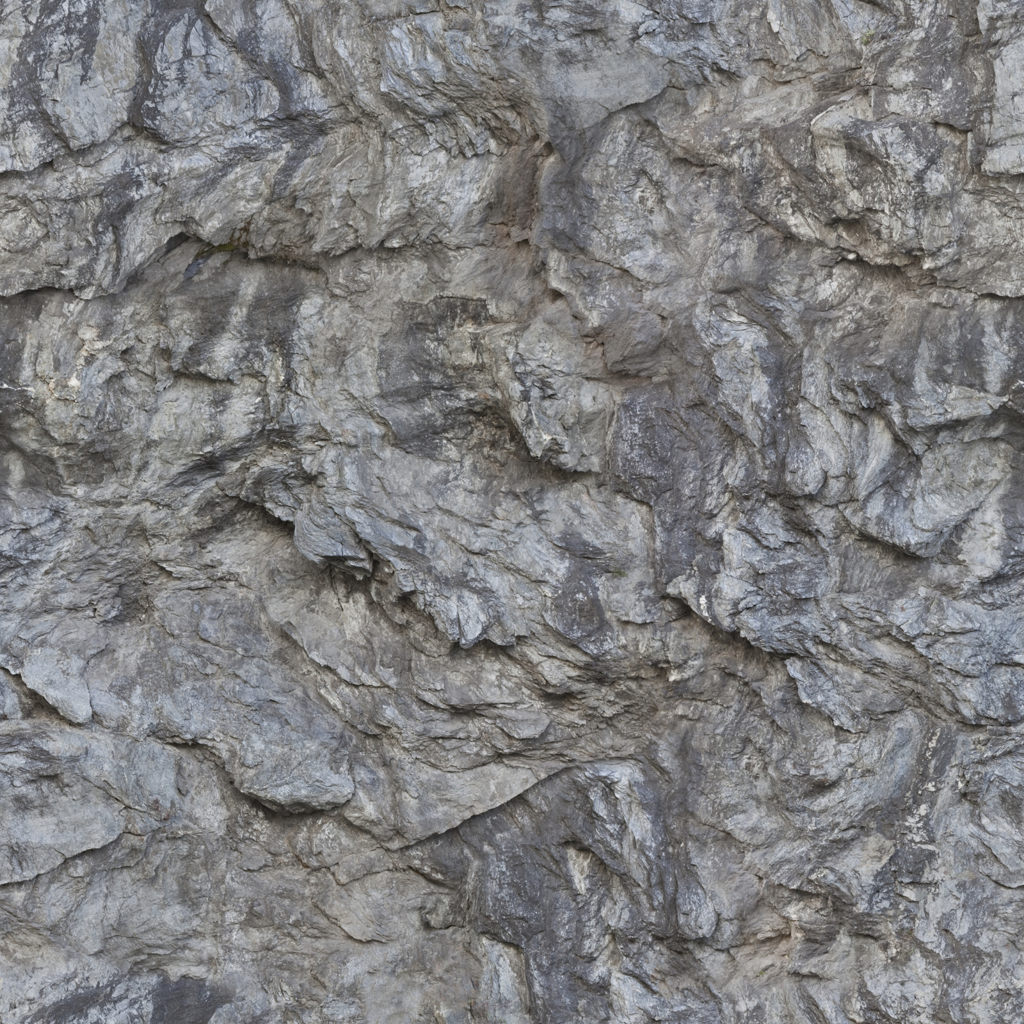
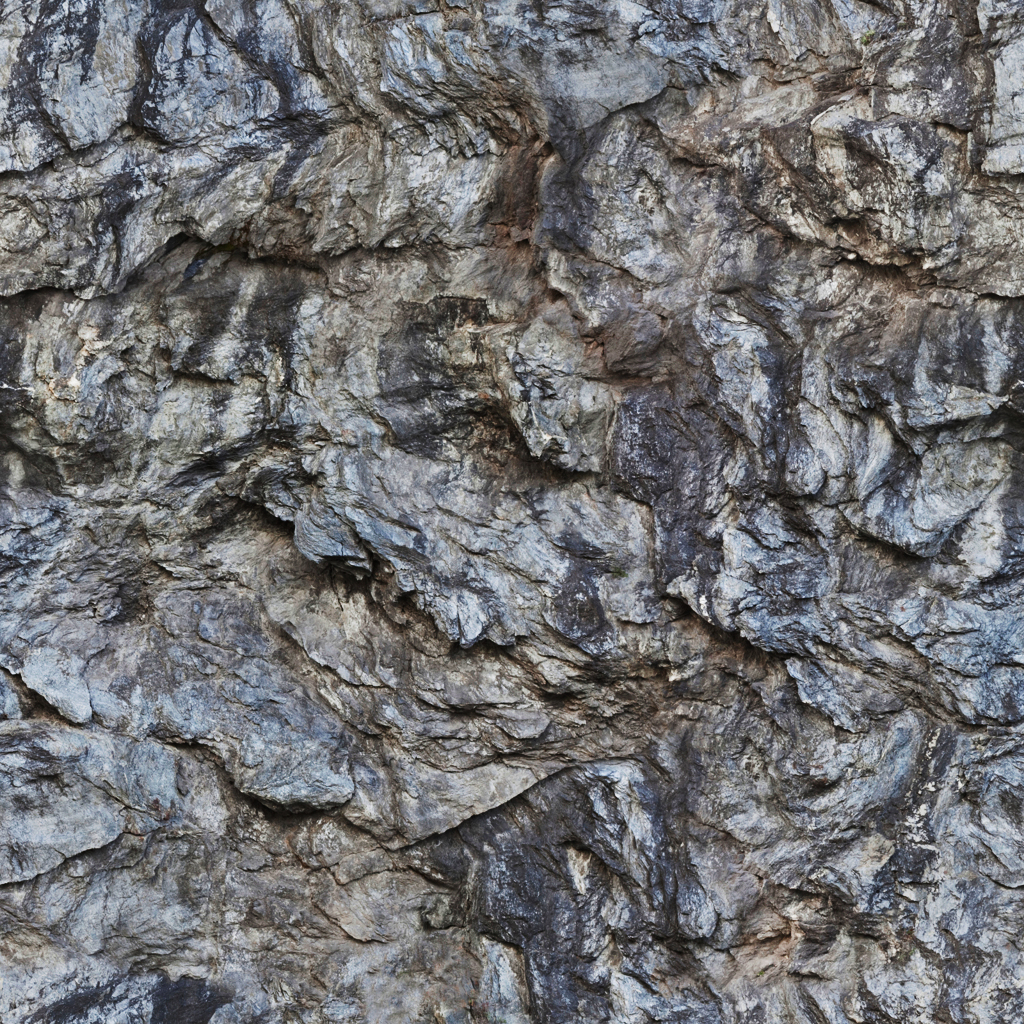
v3.0.0 BETA build 10202017b

diff --git a/oreonengine/oe-gl-demo/src/main/java/org/oreon/demo/gl/oreonworlds2/shaders/TerrainGridShader.java b/oreonengine/oe-gl-demo/src/main/java/org/oreon/demo/gl/oreonworlds2/shaders/TerrainGridShader.java
@@ -1,22 +1,12 @@
 package org.oreon.demo.gl.oreonworlds2.shaders;
 
 import static org.lwjgl.opengl.GL13.GL_TEXTURE0;
-import static org.lwjgl.opengl.GL13.GL_TEXTURE1;
 import static org.lwjgl.opengl.GL13.GL_TEXTURE10;
-import static org.lwjgl.opengl.GL13.GL_TEXTURE11;
 import static org.lwjgl.opengl.GL13.GL_TEXTURE12;
-import static org.lwjgl.opengl.GL13.GL_TEXTURE13;
 import static org.lwjgl.opengl.GL13.GL_TEXTURE14;
-import static org.lwjgl.opengl.GL13.GL_TEXTURE15;
 import static org.lwjgl.opengl.GL13.GL_TEXTURE16;
-import static org.lwjgl.opengl.GL13.GL_TEXTURE17;
 import static org.lwjgl.opengl.GL13.GL_TEXTURE18;
-import static org.lwjgl.opengl.GL13.GL_TEXTURE4;
-import static org.lwjgl.opengl.GL13.GL_TEXTURE5;
-import static org.lwjgl.opengl.GL13.GL_TEXTURE6;
-import static org.lwjgl.opengl.GL13.GL_TEXTURE7;
 import static org.lwjgl.opengl.GL13.GL_TEXTURE8;
-import static org.lwjgl.opengl.GL13.GL_TEXTURE9;
 import static org.lwjgl.opengl.GL13.glActiveTexture;
 
 import org.oreon.core.gl.shaders.GLShader;
@@ -28,35 +18,34 @@ import org.oreon.core.util.ResourceLoader;
 import org.oreon.modules.gl.terrain.TerrainConfiguration;
 import org.oreon.modules.gl.terrain.TerrainNode;
 
-public class TerrainShader extends GLShader{
+public class TerrainGridShader extends GLShader{
 	
-	private static TerrainShader instance = null;
+private static TerrainGridShader instance = null;
 	
-	public static TerrainShader getInstance() 
+	public static TerrainGridShader getInstance() 
 	{
 	    if(instance == null) 
 	    {
-	    	instance = new TerrainShader();
+	    	instance = new TerrainGridShader();
 	    }
 	      return instance;
 	}
 	
-	protected TerrainShader()
+	protected TerrainGridShader()
 	{
 		super();
 
 		addVertexShader(ResourceLoader.loadShader("oreonworlds2/shaders/Terrain_Shader/Terrain_VS.glsl"));
 		addTessellationControlShader(ResourceLoader.loadShader("oreonworlds2/shaders/Terrain_Shader/Terrain_TC.glsl"));
 		addTessellationEvaluationShader(ResourceLoader.loadShader("oreonworlds2/shaders/Terrain_Shader/Terrain_TE.glsl"));
-		addGeometryShader(ResourceLoader.loadShader("oreonworlds2/shaders/Terrain_Shader/Terrain_GS.glsl"));
-		addFragmentShader(ResourceLoader.loadShader("oreonworlds2/shaders/Terrain_Shader/Terrain_FS.glsl"));
+		addGeometryShader(ResourceLoader.loadShader("oreonworlds2/shaders/Terrain_Shader/TerrainGrid_GS.glsl"));
+		addFragmentShader(ResourceLoader.loadShader("oreonworlds2/shaders/Terrain_Shader/TerrainGrid_FS.glsl"));
 		compileShader();
 		
 		addUniform("localMatrix");
 		addUniform("worldMatrix");
 		addUniform("scaleY");
 		addUniform("scaleXZ");
-		addUniform("sightRangeFactor");
 		
 		addUniform("bezier");
 		addUniform("tessFactor");
@@ -69,8 +58,6 @@ public class TerrainShader extends GLShader{
 		addUniform("location");
 		addUniform("texDetail");
 		addUniform("waterReflectionShift");
-		addUniform("isReflection");
-		addUniform("isRefraction");
 //		addUniform("isCameraUnderWater");
 		
 //		addUniform("caustics");
@@ -78,7 +65,6 @@ public class TerrainShader extends GLShader{
 //		addUniform("distortionCaustics");
 		
 		addUniform("heightmap");
-		addUniform("normalmap");
 		
 //		for (int i=0; i<1; i++)
 //		{
@@ -89,26 +75,16 @@ public class TerrainShader extends GLShader{
 		for (int i=0; i<8; i++){
 			addUniform("lod_morph_area[" + i + "]");
 		}
-
-		addUniform("grass.diffusemap");
-		addUniform("grass.splatmap");
-		addUniform("grass.normalmap");
 		
-		addUniform("sand.diffusemap");
 		addUniform("sand.splatmap");
-		addUniform("sand.normalmap");
 		addUniform("sand.heightmap");
 		addUniform("sand.displaceScale");
 		
-		addUniform("rock.diffusemap");
 		addUniform("rock.splatmap");
-		addUniform("rock.normalmap");
 		addUniform("rock.heightmap");
 		addUniform("rock.displaceScale");
 		
-		addUniform("cliff.diffusemap");
 		addUniform("cliff.splatmap");
-		addUniform("cliff.normalmap");
 		addUniform("cliff.heightmap");
 		addUniform("cliff.displaceScale");
 		
@@ -122,8 +98,6 @@ public class TerrainShader extends GLShader{
 		bindUniformBlock("Camera", Constants.CameraUniformBlockBinding);
 		
 		setUniform("clipplane", CoreSystem.getInstance().getRenderingEngine().getClipplane());
-		setUniformi("isReflection", CoreSystem.getInstance().getRenderingEngine().isWaterReflection() ? 1 : 0);
-		setUniformi("isRefraction", CoreSystem.getInstance().getRenderingEngine().isWaterRefraction() ? 1 : 0);
 //		setUniformi("isCameraUnderWater", CoreSystem.getInstance().getRenderingEngine().isCameraUnderWater() ? 1 : 0);		
 		
 		TerrainConfiguration terrConfig = ((TerrainNode) object).getTerrConfig();
@@ -139,10 +113,6 @@ public class TerrainShader extends GLShader{
 		terrConfig.getHeightmap().bind();
 		setUniformi("heightmap", 0);
 		
-		glActiveTexture(GL_TEXTURE1);
-		terrConfig.getNormalmap().bind();
-		setUniformi("normalmap", 1);
-		
 //		for (int i=0; i<1; i++)
 //		{
 //			glActiveTexture(GL_TEXTURE28 + i);
@@ -153,7 +123,6 @@ public class TerrainShader extends GLShader{
 		
 		setUniformf("scaleY", terrConfig.getScaleY());
 		setUniformf("scaleXZ", terrConfig.getScaleXZ());
-		setUniformf("sightRangeFactor", terrConfig.getSightRangeFactor());
 		setUniformi("bezier", terrConfig.getBezier());
 		setUniformi("tessFactor", terrConfig.getTessellationFactor());
 		setUniformf("tessSlope", terrConfig.getTessellationSlope());
@@ -179,32 +148,10 @@ public class TerrainShader extends GLShader{
 			setUniformi("lod_morph_area[" + i + "]", terrConfig.getLod_morphing_area()[i]);
 		}
 		
-		// grass material
-		glActiveTexture(GL_TEXTURE4);
-		terrConfig.getMaterial0().getDiffusemap().bind();
-		setUniformi("grass.diffusemap", 4);
-		
-		glActiveTexture(GL_TEXTURE5);
-		terrConfig.getSplatmaps().get(0).bind();
-		setUniformi("grass.splatmap", 5);
-		
-		glActiveTexture(GL_TEXTURE6);
-		terrConfig.getMaterial1().getNormalmap().bind();
-		setUniformi("grass.normalmap", 6);
-		
-		
 		// sand material
-		glActiveTexture(GL_TEXTURE7);
-		terrConfig.getMaterial1().getDiffusemap().bind();
-		setUniformi("sand.diffusemap", 7);
-		
 		glActiveTexture(GL_TEXTURE8);
 		terrConfig.getSplatmaps().get(1).bind();
 		setUniformi("sand.splatmap", 8);
-		
-		glActiveTexture(GL_TEXTURE9);
-		terrConfig.getMaterial1().getNormalmap().bind();
-		setUniformi("sand.normalmap", 9);	
 		
 		glActiveTexture(GL_TEXTURE10);
 		terrConfig.getMaterial1().getHeightmap().bind();
@@ -212,17 +159,9 @@ public class TerrainShader extends GLShader{
 		setUniformf("sand.displaceScale", terrConfig.getMaterial1().getDisplacementScale());
 		
 		// rock material
-		glActiveTexture(GL_TEXTURE11);
-		terrConfig.getMaterial2().getDiffusemap().bind();
-		setUniformi("rock.diffusemap", 11);
-		
 		glActiveTexture(GL_TEXTURE12);
 		terrConfig.getSplatmaps().get(2).bind();
 		setUniformi("rock.splatmap", 12);
-		
-		glActiveTexture(GL_TEXTURE13);
-		terrConfig.getMaterial2().getNormalmap().bind();
-		setUniformi("rock.normalmap", 13);
 		
 		glActiveTexture(GL_TEXTURE14);
 		terrConfig.getMaterial2().getHeightmap().bind();
@@ -230,21 +169,14 @@ public class TerrainShader extends GLShader{
 		setUniformf("rock.displaceScale", terrConfig.getMaterial2().getDisplacementScale());
 		
 		// cliff material
-		glActiveTexture(GL_TEXTURE15);
-		terrConfig.getMaterial3().getDiffusemap().bind();
-		setUniformi("cliff.diffusemap", 15);
-		
 		glActiveTexture(GL_TEXTURE16);
 		terrConfig.getSplatmaps().get(3).bind();
 		setUniformi("cliff.splatmap", 16);
-		
-		glActiveTexture(GL_TEXTURE17);
-		terrConfig.getMaterial3().getNormalmap().bind();
-		setUniformi("cliff.normalmap", 17);
 		
 		glActiveTexture(GL_TEXTURE18);
 		terrConfig.getMaterial3().getHeightmap().bind();
 		setUniformi("cliff.heightmap", 18);
 		setUniformf("cliff.displaceScale", terrConfig.getMaterial3().getDisplacementScale());
 	}
+
 }

diff --git a/oreonengine/oe-gl-system/src/main/java/org/oreon/system/gl/desktop/GLDeferredRenderingEngine.java b/oreonengine/oe-gl-system/src/main/java/org/oreon/system/gl/desktop/GLDeferredRenderingEngine.java
@@ -28,6 +28,7 @@ import org.oreon.modules.gl.gui.GUIs.VoidGUI;
 import org.oreon.modules.gl.gui.elements.TexturePanel;
 import org.oreon.modules.gl.terrain.Terrain;
 import static org.lwjgl.opengl.GL30.GL_RGBA32F;
+import static org.lwjgl.opengl.GL30.GL_RGBA16F;
 import static org.lwjgl.opengl.GL11.GL_RGBA8;
 
 public class GLDeferredRenderingEngine implements RenderingEngine{
@@ -35,8 +36,9 @@ public class GLDeferredRenderingEngine implements RenderingEngine{
 	private Window window;
 	private TexturePanel fullScreenTexture;
 	
-	private GLFramebuffer fbo;
+	private GLFramebuffer gBufferFbo;
 	private GLFramebuffer multisampledFbo;
+	private GLFramebuffer finalSceneFbo;
 	private DeferredRenderer deferredRenderer;
 	private GUI gui;
 	
@@ -69,28 +71,40 @@ public class GLDeferredRenderingEngine implements RenderingEngine{
 		drawBuffers.put(GL_COLOR_ATTACHMENT3);
 		drawBuffers.flip();
 		
+		deferredRenderer = new DeferredRenderer(window.getWidth(), window.getHeight());
+		
+		gBufferFbo = new GLFramebuffer();
+		gBufferFbo.bind();
+		gBufferFbo.createColorTextureAttachment(deferredRenderer.getGbuffer().getAlbedoTexture().getId(),0);
+		gBufferFbo.createColorTextureAttachment(deferredRenderer.getGbuffer().getWorldPositionTexture().getId(),1);
+		gBufferFbo.createColorTextureAttachment(deferredRenderer.getGbuffer().getNormalTexture().getId(),2);
+		gBufferFbo.createColorTextureAttachment(deferredRenderer.getGbuffer().getSpecularEmissionTexture().getId(),3);
+		gBufferFbo.createDepthTextureAttachment(deferredRenderer.getGbuffer().getSceneDepthmap().getId());
+		gBufferFbo.setDrawBuffers(drawBuffers);
+		gBufferFbo.checkStatus();
+		gBufferFbo.unbind();
+		
+		IntBuffer multiSampleDrawBuffer = BufferUtil.createIntBuffer(1);
+		multiSampleDrawBuffer.put(GL_COLOR_ATTACHMENT0);
+		multiSampleDrawBuffer.flip();
+		
 		multisampledFbo = new GLFramebuffer();
 		multisampledFbo.bind();
-		multisampledFbo.createColorBufferMultisampleAttachment(Constants.MULTISAMPLES, 0, window.getWidth(), window.getHeight(), GL_RGBA8);
-		multisampledFbo.createColorBufferMultisampleAttachment(Constants.MULTISAMPLES, 1, window.getWidth(), window.getHeight(), GL_RGBA32F);
-		multisampledFbo.createColorBufferMultisampleAttachment(Constants.MULTISAMPLES, 2, window.getWidth(), window.getHeight(), GL_RGBA32F);
-		multisampledFbo.createColorBufferMultisampleAttachment(Constants.MULTISAMPLES, 3, window.getWidth(), window.getHeight(), GL_RGBA8);
-		multisampledFbo.createDepthBufferMultisampleAttachment(Constants.MULTISAMPLES, window.getWidth(), window.getHeight());
-		multisampledFbo.setDrawBuffers(drawBuffers);
+		multisampledFbo.createColorBufferMultisampleAttachment(Constants.MULTISAMPLES, 0, window.getWidth(), window.getHeight(), GL_RGBA16F);
+		multisampledFbo.setDrawBuffers(multiSampleDrawBuffer);
 		multisampledFbo.checkStatus();
 		multisampledFbo.unbind();
 		
-		deferredRenderer = new DeferredRenderer(window.getWidth(), window.getHeight());
+		IntBuffer finalSceneDrawBuffer = BufferUtil.createIntBuffer(1);
+		multiSampleDrawBuffer.put(GL_COLOR_ATTACHMENT0);
+		multiSampleDrawBuffer.flip();
 		
-		fbo = new GLFramebuffer();
-		fbo.bind();
-		fbo.createColorTextureAttachment(deferredRenderer.getGbuffer().getAlbedoTexture().getId(),0);
-		fbo.createColorTextureAttachment(deferredRenderer.getGbuffer().getWorldPositionTexture().getId(),1);
-		fbo.createColorTextureAttachment(deferredRenderer.getGbuffer().getNormalTexture().getId(),2);
-		fbo.createColorTextureAttachment(deferredRenderer.getGbuffer().getSpecularEmissionTexture().getId(),3);
-		fbo.createDepthTextureAttachment(deferredRenderer.getGbuffer().getSceneDepthmap().getId());
-		fbo.checkStatus();
-		fbo.unbind();
+		finalSceneFbo = new GLFramebuffer();
+		finalSceneFbo.bind();
+		finalSceneFbo.createColorTextureAttachment(deferredRenderer.getDeferredSceneTexture().getId(),0);
+		finalSceneFbo.setDrawBuffers(finalSceneDrawBuffer);
+		finalSceneFbo.checkStatus();
+		finalSceneFbo.unbind();
 	}
 	@Override
 	public void render() {
@@ -115,21 +129,25 @@ public class GLDeferredRenderingEngine implements RenderingEngine{
 		shadowMaps.getFBO().unbind();
 		
 		// render scene/deferred maps
-		multisampledFbo.bind();
+		gBufferFbo.bind();
 		Default.clearScreen();
 		CoreSystem.getInstance().getScenegraph().render();
+		gBufferFbo.unbind();
+		
+//		fbo.bind();
+//		Default.clearScreen();
+//		fbo.unbind();
+
+
+//		multisampledFbo.blitFrameBuffer(1,1,fbo.getId(), window.getWidth(), window.getHeight());
+//		multisampledFbo.blitFrameBuffer(2,2,fbo.getId(), window.getWidth(), window.getHeight());
+//		multisampledFbo.blitFrameBuffer(3,3,fbo.getId(), window.getWidth(), window.getHeight());
+		
+		multisampledFbo.bind();
+		deferredRenderer.render();
 		multisampledFbo.unbind();
 		
-		fbo.bind();
-		Default.clearScreen();
-		fbo.unbind();
-
-		multisampledFbo.blitFrameBuffer(0,0,fbo.getId(), window.getWidth(), window.getHeight());
-		multisampledFbo.blitFrameBuffer(1,1,fbo.getId(), window.getWidth(), window.getHeight());
-		multisampledFbo.blitFrameBuffer(2,2,fbo.getId(), window.getWidth(), window.getHeight());
-		multisampledFbo.blitFrameBuffer(3,3,fbo.getId(), window.getWidth(), window.getHeight());
-		
-		deferredRenderer.render();
+		multisampledFbo.blitFrameBuffer(0,0,finalSceneFbo.getId(), window.getWidth(), window.getHeight());
 		
 		fullScreenTexture.setTexture(deferredRenderer.getDeferredSceneTexture());
 		

diff --git a/oreonengine/oe-gl-demo/src/main/java/org/oreon/demo/gl/oreonworlds2/Main.java b/oreonengine/oe-gl-demo/src/main/java/org/oreon/demo/gl/oreonworlds2/Main.java
@@ -5,6 +5,7 @@ import org.oreon.core.system.CoreEngine;
 import org.oreon.core.system.CoreSystem;
 import org.oreon.core.system.Window;
 import org.oreon.demo.gl.oreonworlds.gui.GUI;
+import org.oreon.demo.gl.oreonworlds2.shaders.TerrainGridShader;
 import org.oreon.demo.gl.oreonworlds2.shaders.TerrainShader;
 import org.oreon.modules.gl.atmosphere.SkySphere;
 import org.oreon.modules.gl.terrain.Terrain;
@@ -21,7 +22,7 @@ public class Main {
 		GLDeferredRenderingEngine renderingengine = new GLDeferredRenderingEngine();
 		Window window = new GLWindow();
 		
-		renderingengine.setGui(new GUI());
+//		renderingengine.setGui(new GUI());
 		window.setWidth(1280);
 		window.setHeight(720);
 		window.setTitle("OREON ENGINE oreonworlds 2.0");
@@ -37,7 +38,7 @@ public class Main {
 		Terrain.getInstance().init("oreonworlds2/terrain/terrain_settings.txt",
 								   "oreonworlds2/terrain/terrain_settings_LowPoly.txt",
 								   TerrainShader.getInstance(),
-								   null, 
+								   TerrainGridShader.getInstance(), 
 								   null);
 		coreSystem.getScenegraph().addObject(new SkySphere());	
 		

diff --git a/oreonengine/oe-core-opengl/src/main/java/org/oreon/core/gl/deferred/DeferredRenderer.java b/oreonengine/oe-core-opengl/src/main/java/org/oreon/core/gl/deferred/DeferredRenderer.java
@@ -48,7 +48,7 @@ public class DeferredRenderer {
 		
 		shader.bind();
 		glBindImageTexture(0, deferredSceneTexture.getId(), 0, false, 0, GL_WRITE_ONLY, GL_RGBA16F);
-		glBindImageTexture(1, gbuffer.getAlbedoTexture().getId(), 0, false, 0, GL_READ_ONLY, GL_RGBA32F);
+		glBindImageTexture(1, gbuffer.getAlbedoTexture().getId(), 0, false, 0, GL_READ_ONLY, GL_RGBA8);
 		glBindImageTexture(2, gbuffer.getWorldPositionTexture().getId(), 0, false, 0, GL_READ_ONLY, GL_RGBA32F);
 		glBindImageTexture(3, gbuffer.getNormalTexture().getId(), 0, false, 0, GL_READ_ONLY, GL_RGBA32F);
 		glBindImageTexture(4, gbuffer.getSpecularEmissionTexture().getId(), 0, false, 0, GL_READ_ONLY, GL_RGBA8);

diff --git a/oreonengine/oe-gl-system/src/main/java/org/oreon/system/gl/desktop/GLForwardRenderingEngine.java b/oreonengine/oe-gl-system/src/main/java/org/oreon/system/gl/desktop/GLForwardRenderingEngine.java
@@ -147,7 +147,7 @@ public class GLForwardRenderingEngine implements RenderingEngine{
 		fbo = new GLFramebuffer();
 		fbo.bind();
 		fbo.createColorTextureAttachment(sceneTexture.getId(),0);
-		fbo.createColorTextureAttachment(blackScene4LightScatteringTexture.getId(),1);
+		fbo.createColorTextureAttachment(blackScene4LightScatteringTexture.getId(),4);
 		fbo.createDepthTextureAttachment(sceneDepthmap.getId());
 		fbo.checkStatus();
 		fbo.unbind();

diff --git a/oreonengine/oe-core/src/main/java/org/oreon/core/light/DirectionalLight.java b/oreonengine/oe-core/src/main/java/org/oreon/core/light/DirectionalLight.java
@@ -29,7 +29,7 @@ public abstract class DirectionalLight extends Light{
 										 + Float.BYTES * 24;
 	
 	protected DirectionalLight(){
-		this(new Vec3f(1.0f,-2.0f,1.0f).normalize(),new Vec3f(0.02f,0.02f,0.02f),new Vec3f(1,0.95f,0.87f),1.2f);
+		this(new Vec3f(1.0f,-2.0f,1.0f).normalize(),new Vec3f(0.08f,0.08f,0.08f),new Vec3f(1,0.95f,0.87f),2f);
 	}
 	
 	protected DirectionalLight(Vec3f direction, Vec3f ambient, Vec3f color, float intensity) {

diff --git a/oreonengine/oe-core-opengl/src/main/java/org/oreon/core/gl/deferred/GBuffer.java b/oreonengine/oe-core-opengl/src/main/java/org/oreon/core/gl/deferred/GBuffer.java
@@ -26,7 +26,7 @@ public class GBuffer {
 		albedoTexture = new Texture2D();
 		albedoTexture.generate();
 		albedoTexture.bind();
-		glTexImage2D(GL_TEXTURE_2D, 0, GL_RGBA32F, width, height, 0, GL_RGBA, GL_FLOAT, (ByteBuffer) null);
+		glTexImage2D(GL_TEXTURE_2D, 0, GL_RGBA8, width, height, 0, GL_RGBA, GL_FLOAT, (ByteBuffer) null);
 		albedoTexture.bilinearFilter();
 		albedoTexture.clampToEdge();
 		
